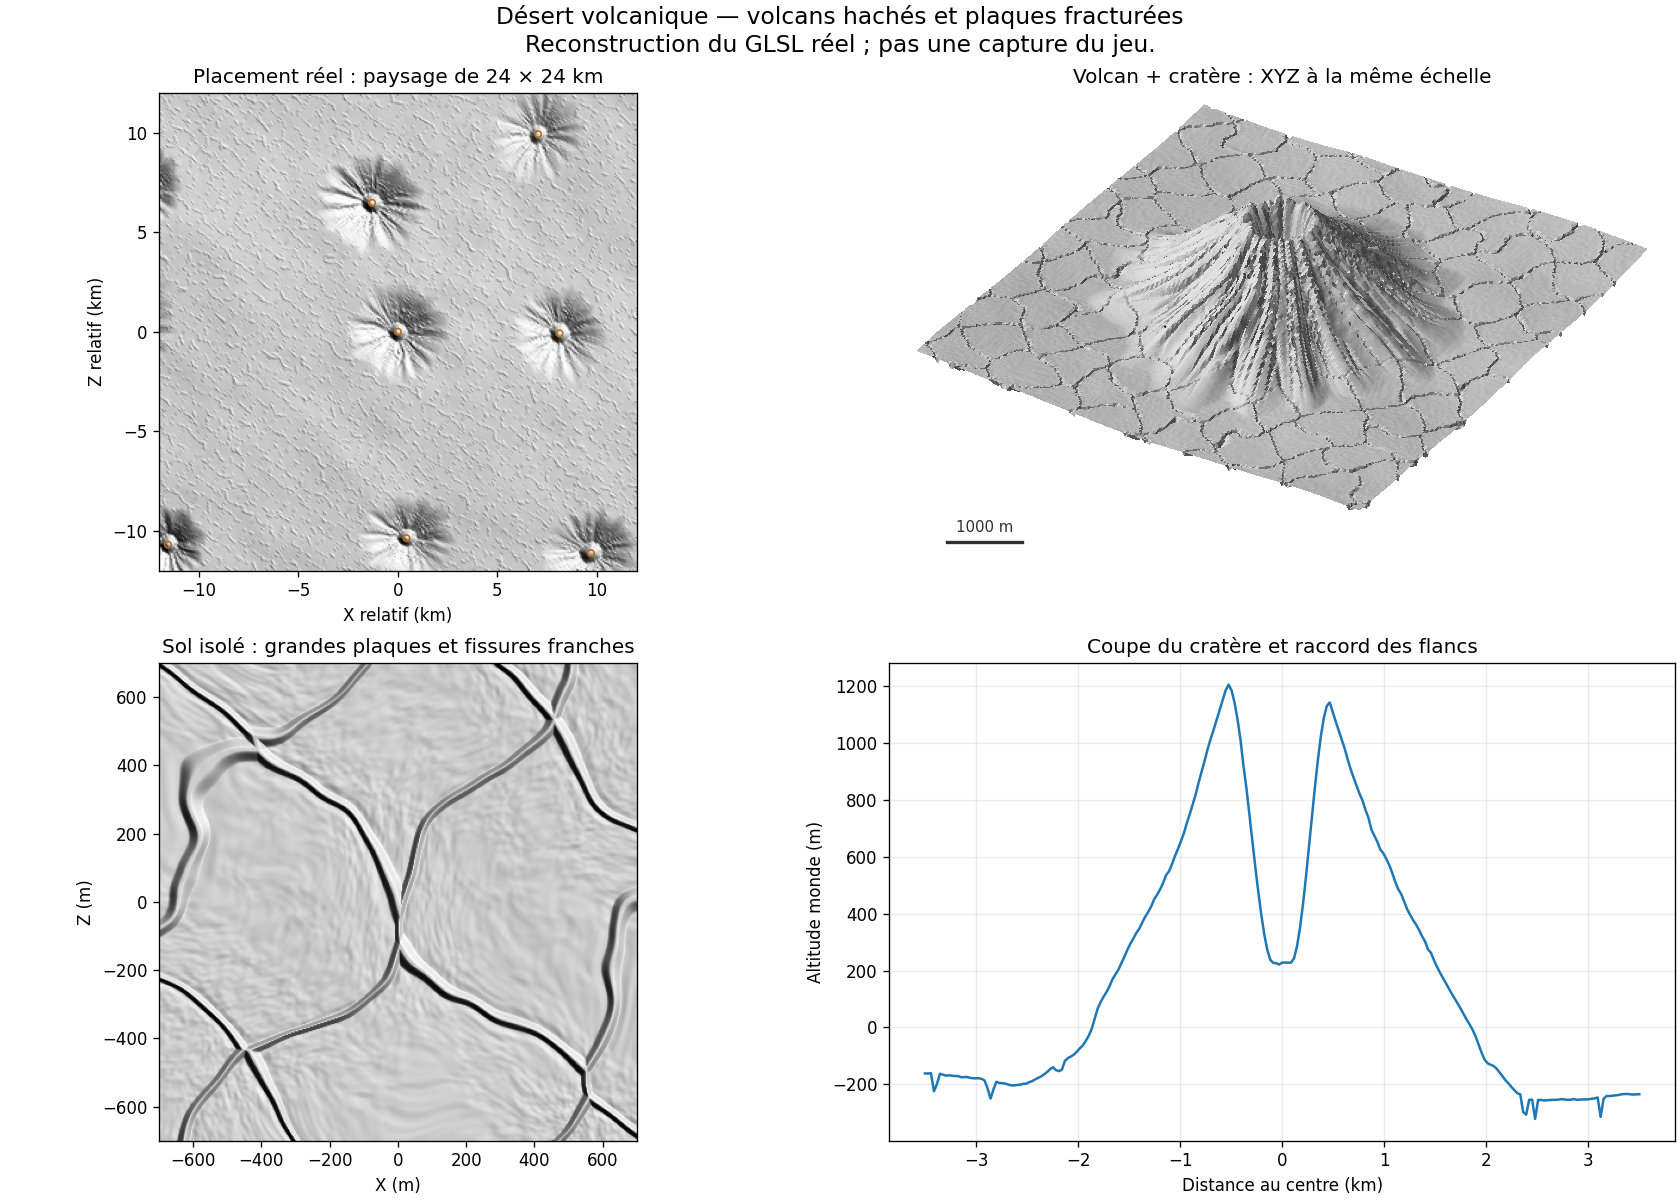
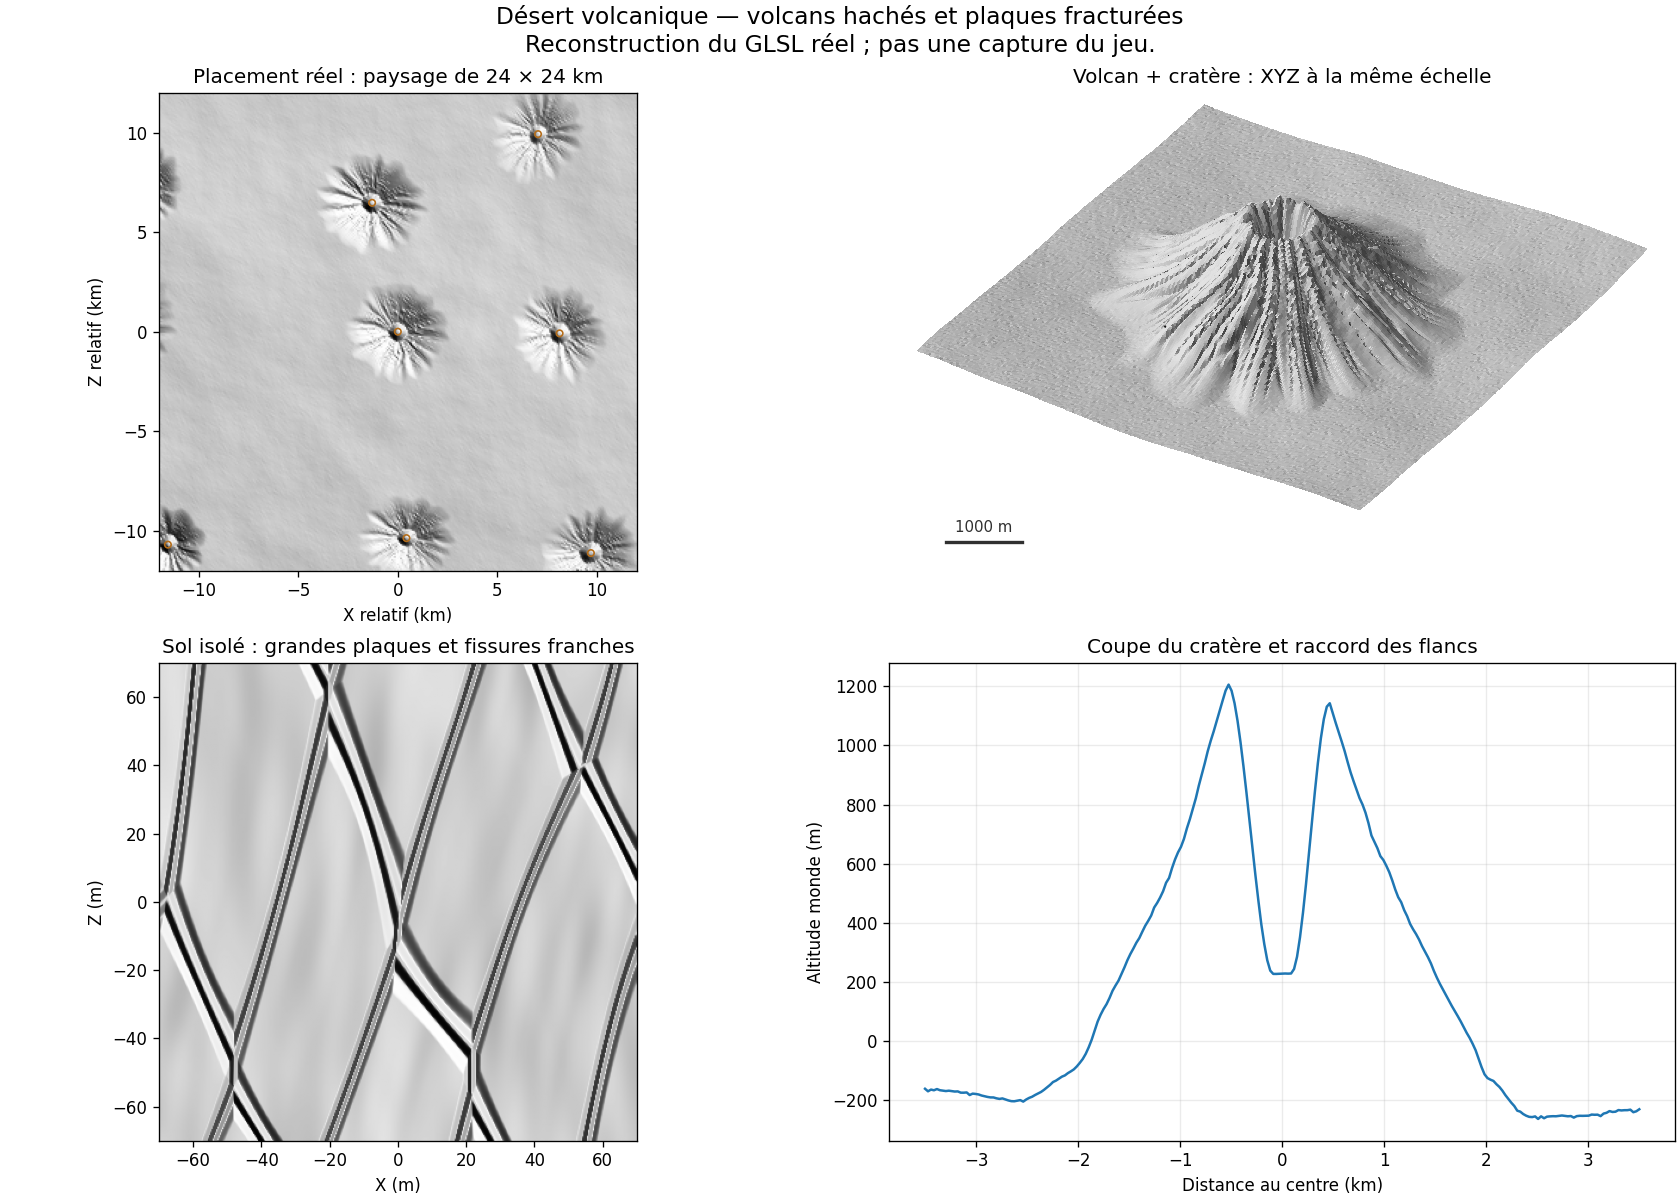
Reduce volcanic crack cell size, width and depth by ten

diff --git a/Tests/Terrain/check_volcanic_desert.py b/Tests/Terrain/check_volcanic_desert.py
@@ -142,10 +142,11 @@ def morphology_checks(gl,cells):
 def ground_checks(gl):
  u=qmc.Sobol(2,scramble=True,seed=3829).random_base2(16)
  xz=(u-.5)*64000.;q=xz_queries(xz);r=PointProbe(gl,GROUND).chunks(q)
- deep=r[:,1]<3.;plate=r[:,1]>45.
+ width=float(r[0,9]);depth=float(r[0,10])
+ deep=r[:,1]<.075*width;plate=r[:,1]>1.125*width
  assert deep.sum()>200 and plate.sum()>200,'Cracks or plates are absent'
  contrast=float(np.median(r[plate,0])-np.median(r[deep,0]))
- assert contrast>45.,('Fissures too shallow to read as broken basalt',contrast)
+ assert contrast>depth*.69,('Fissures too shallow to read as broken basalt',contrast)
  rotated=np.column_stack((.8*xz[:,0]-.6*xz[:,1],.6*xz[:,0]+.8*xz[:,1]))
  warp=np.linalg.norm(r[:,4:6]-rotated,axis=1)
  assert np.median(warp)>20.,'Cell coordinates have no broad distortion'
@@ -201,7 +202,10 @@ def render(gl,path,sites):
  center=sites[np.argmin(np.sum(sites[:,:2]**2,axis=1)),:2]
  axis,h,_=height_grid(gl,center,24000.,321)
  close_axis,close,_=height_grid(gl,center,7000.,241)
- plain=np.array([0.,0.]);ground_axis,ground,_=height_grid(gl,plain,1400.,401,ground=True)
+ plain=np.array([0.,0.])
+ ground_extent=2.*PointProbe(gl,GROUND).run(xz_queries(plain[None,:]))[0,8]
+ ground_axis,ground,_=height_grid(gl,plain,ground_extent,401,ground=True)
+ ground_step=ground_extent/400.
  fig=plt.figure(figsize=(14,10),constrained_layout=True);grid=fig.add_gridspec(2,2)
  ax=fig.add_subplot(grid[0,0]);shade=LightSource(315,40).hillshade(h,dx=75.,dy=75.,vert_exag=1.)
  ax.imshow(shade,extent=[-12,12,-12,12],origin='lower',cmap='gray',vmin=0,vmax=1)
@@ -213,15 +217,15 @@ def render(gl,path,sites):
  columns=np.zeros((*close.shape,4));columns[:,:,0]=close
  sample=dict(origin=(center-3500.).tolist(),spacing=7000./240.,min_y=0.,step_y=1.,density=np.zeros((241,1,241)),columns=columns)
  draw_projected_mesh(ax,sample,tris);ax.set_title('Volcan + cratère : XYZ à la même échelle')
- ax=fig.add_subplot(grid[1,0]);shade=LightSource(315,40).hillshade(ground,dx=3.5,dy=3.5,vert_exag=1.)
- ax.imshow(shade,extent=[-700,700,-700,700],origin='lower',cmap='gray',vmin=0,vmax=1)
+ ax=fig.add_subplot(grid[1,0]);shade=LightSource(315,40).hillshade(ground,dx=ground_step,dy=ground_step,vert_exag=1.)
+ ax.imshow(shade,extent=[-ground_extent/2,ground_extent/2,-ground_extent/2,ground_extent/2],origin='lower',cmap='gray',vmin=0,vmax=1)
  ax.set_xlabel('X (m)');ax.set_ylabel('Z (m)');ax.set_title('Sol isolé : grandes plaques et fissures franches')
  ax=fig.add_subplot(grid[1,1]);ax.plot(close_axis/1000.,close[len(close)//2],label='Hauteur GLSL à Z = centre')
  ax.set_xlabel('Distance au centre (km)');ax.set_ylabel('Altitude monde (m)');ax.set_title('Coupe du cratère et raccord des flancs');ax.grid(alpha=.25)
  fig.suptitle('Désert volcanique — volcans hachés et plaques fracturées\nReconstruction du GLSL réel ; pas une capture du jeu.',fontsize=14)
  fig.savefig(path,dpi=120);plt.close(fig)
  return dict(seed=1337,center_xz_m=center.tolist(),landscape_extent_m=24000.,landscape_step_m=75.,
-  volcano_extent_m=7000.,volcano_step_m=7000./240.,ground_extent_m=1400.,ground_step_m=3.5)
+  volcano_extent_m=7000.,volcano_step_m=7000./240.,ground_extent_m=float(ground_extent),ground_step_m=float(ground_step))
 
 
 def main():

diff --git a/docs/VOLCANIC_DESERT.md b/docs/VOLCANIC_DESERT.md
@@ -25,11 +25,11 @@ Dans `ground.glsl` :
 
 | Constante | Valeur initiale | Effet |
 |---|---:|---|
-| `VOLCANIC_GROUND_PLATE_SCALE` | 700 m | Échelle des plaques Voronoï |
+| `VOLCANIC_GROUND_PLATE_SCALE` | 70 m | Échelle des plaques Voronoï |
 | `VOLCANIC_GROUND_WARP_SCALE` | 1 100 m | Échelle de la déformation principale |
 | `VOLCANIC_GROUND_WARP_STRENGTH` | 180 m | Amplitude de cette déformation |
-| `VOLCANIC_GROUND_CRACK_WIDTH` | 40 m | Largeur approximative des fissures |
-| `VOLCANIC_GROUND_CRACK_DEPTH` | 65 m | Profondeur nominale, variable avec un bruit large |
+| `VOLCANIC_GROUND_CRACK_WIDTH` | 4 m | Largeur approximative des fissures |
+| `VOLCANIC_GROUND_CRACK_DEPTH` | 6,5 m | Profondeur nominale, variable avec un bruit large |
 
 ## Placement et forme
 
@@ -50,7 +50,7 @@ des hauteurs pour éviter de doubler artificiellement les sommets.
 Le sol utilise la différence entre les deux premières distances Voronoï, qui
 s'annule sur les limites des plaques. Une rotation et deux déformations de
 coordonnées rendent ces limites moins régulières. Cette différence est une
-approximation de distance : les 40 m indiquent une largeur de départ, pas une
+approximation de distance : les 4 m indiquent une largeur de départ, pas une
 largeur géométrique exacte partout. Les fissures sont creusées dans la hauteur,
 avec de petites lèvres et une rugosité fine entre les plaques. Leur contribution
 diminue sur les volcans pour laisser les ravines des flancs dominer la silhouette.
@@ -77,5 +77,5 @@ Les résultats mesurés et l'aperçu sont dans
 `docs/biome-validation/volcanic_desert.json` et `volcanic_desert.png`.
 L'image reconstruit la hauteur réellement calculée par les shaders : ce n'est
 pas une capture du jeu. Le détail des fissures est montré à part avec un pas
-de 3,5 m, car la vue générale à 75 m ne les résout pas correctement.
+de 0,35 m, car la vue générale à 75 m ne les résout pas correctement.
 Les vérifications ne mesurent pas le temps GPU sous Windows ni les collisions.
